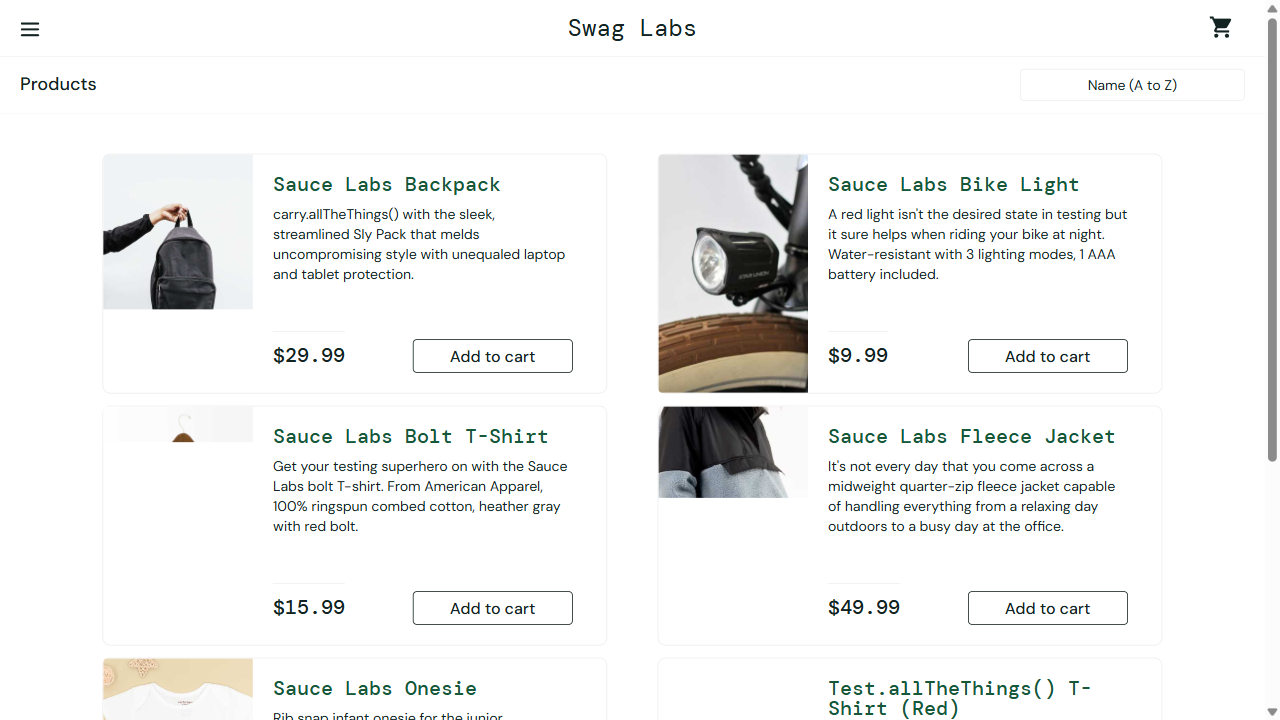
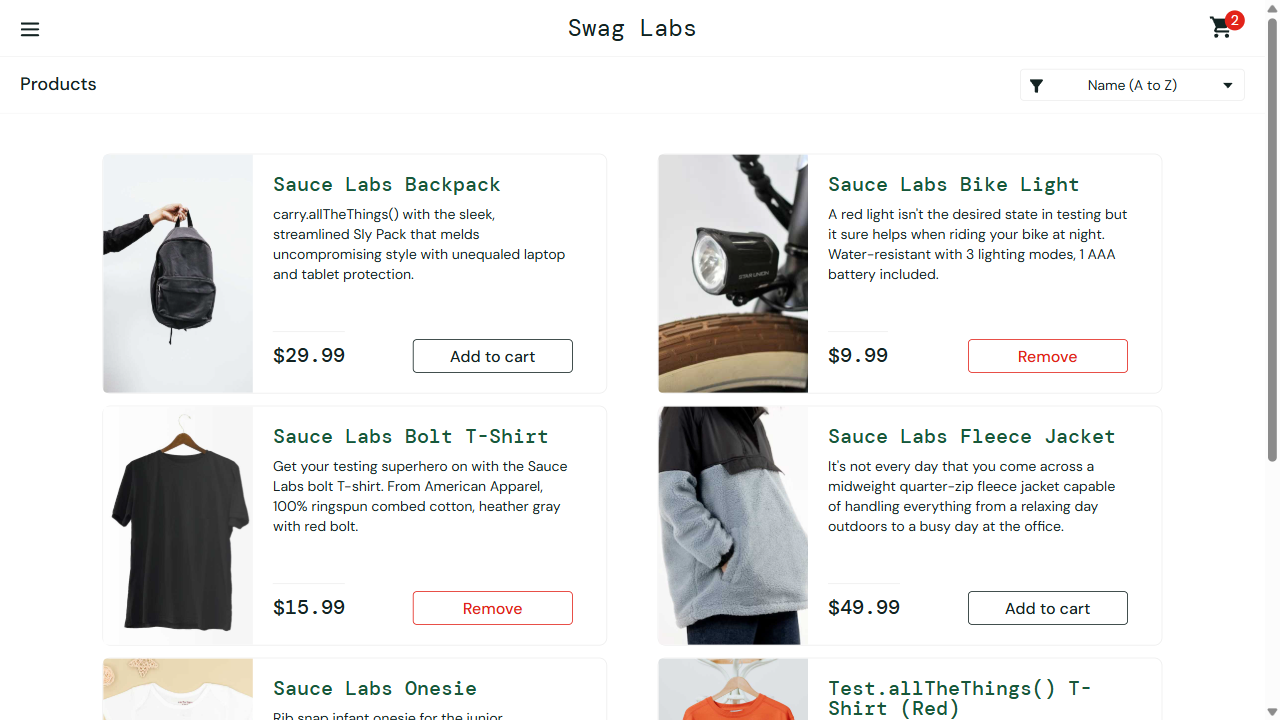
Task 3: created a cart page and added methods to accomodate adding, removing cart items by Index and counting item
Task 4: created a checkout page to accomodate the end to end checkout flow

diff --git a/munch assesment/page-objects/cart-page.ts b/munch assesment/page-objects/cart-page.ts
@@ -1,0 +1,133 @@
+import { expect, Locator, Page } from '@playwright/test';
+
+export class CartPage {
+    readonly page: Page;
+    readonly inventoryItems: Locator;
+    readonly cartItems: Locator;
+    readonly badge: Locator;
+
+    constructor(page: Page) {
+        this.page = page;
+        this.inventoryItems = page.locator('.inventory_item');
+        this.cartItems = page.locator('.cart_item');
+        this.badge = page.locator('.shopping_cart_badge');
+    }
+
+    async addItems(count: number) {
+        try {
+            await expect(this.inventoryItems.first()).toBeVisible({ timeout: 5000 });
+            const available = await this.inventoryItems.count();
+
+            if (count > available) {
+                throw new Error(`Requested ${count} items, but only ${available} are available`);
+            }
+
+            for (let i = 0; i < count; i++) {
+                const item = this.inventoryItems.nth(i);
+                const name = await item.locator('[data-test="inventory-item-name"]').textContent();
+                console.log(`Adding item: ${name}`);
+                await item.locator('button').click();
+            }
+
+            await expect(this.badge).toHaveText(String(count));
+        } catch (error) {
+            console.error('Error adding items to cart:', error);
+            await this.page.screenshot({ path: 'cart-add-error.png' });
+            throw error;
+        }
+    }
+
+    async removeItemByIndex(index: number) {
+        try {
+            const count = await this.inventoryItems.count();
+            if (index < 0 || index >= count) {
+                throw new Error(`Invalid remove index: ${index}. Available items: ${count}`);
+            }
+
+            const item = this.inventoryItems.nth(index);
+            await expect(item).toBeVisible({ timeout: 5000 });
+
+            const name = await item.locator('[data-test="inventory-item-name"]').textContent();
+            console.log(`Removing item: ${name}`);
+            await item.locator('button:has-text("Remove")').click();
+        } catch (error) {
+            console.error('Error removing item from cart:', error);
+            await this.page.screenshot({ path: 'cart-remove-error.png' });
+            throw error;
+        }
+    }
+
+    async getCartCount(): Promise<number> {
+        try {
+            if (!await this.badge.isVisible()) {
+                return 0;
+            }
+            const text = await this.badge.textContent();
+            const value = Number(text);
+            if (Number.isNaN(value)) {
+                throw new Error(`Unexpected cart badge text: ${text}`);
+            }
+            return value;
+        } catch (error) {
+            console.error('Error reading cart count:', error);
+            throw error;
+        }
+    }
+
+    async openCart() {
+        try {
+            await expect(this.page.locator('.shopping_cart_link')).toBeVisible({ timeout: 5000 });
+            await this.page.click('.shopping_cart_link');
+        } catch (error) {
+            console.error('Error opening cart:', error);
+            await this.page.screenshot({ path: 'cart-open-error.png' });
+            throw error;
+        }
+    }
+
+    async checkout() {
+        try {
+            await expect(this.page.locator('[data-test="checkout"]')).toBeVisible({ timeout: 5000 });
+            await this.page.click('[data-test="checkout"]');
+        } catch (error) {
+            console.error('Error clicking checkout:', error);
+            await this.page.screenshot({ path: 'cart-checkout-error.png' });
+            throw error;
+        }
+    }
+
+    async clearCart() {
+        try {
+            let removeButtons = this.page.locator('.inventory_item button:has-text("Remove")');
+            let count = await removeButtons.count();
+
+            while (count > 0) {
+                await removeButtons.first().click();
+                removeButtons = this.page.locator('.inventory_item button:has-text("Remove")');
+                count = await removeButtons.count();
+            }
+
+            console.log('Cleared existing cart items');
+        } catch (error) {
+            console.error('Error clearing cart:', error);
+            await this.page.screenshot({ path: 'cart-clear-error.png' });
+            throw error;
+        }
+    }
+
+    async getCartItemCount(): Promise<number> {
+        try {
+            await expect(this.cartItems.first()).toBeVisible({ timeout: 5000 });
+            return await this.cartItems.count();
+        } catch (error) {
+            console.error('Error counting cart items:', error);
+            throw error;
+        }
+    }
+}
+
+
+
+
+
+

diff --git a/munch assesment/page-objects/checkout-page.ts b/munch assesment/page-objects/checkout-page.ts
@@ -1,0 +1,102 @@
+import { expect, Locator, Page } from '@playwright/test';
+
+export class CheckoutPage {
+  readonly page: Page;
+  readonly firstName: Locator;
+  readonly lastName: Locator;
+  readonly postalCode: Locator;
+  readonly continueButton: Locator;
+  readonly finishButton: Locator;
+  readonly subtotalLabel: Locator;
+  readonly taxLabel: Locator;
+  readonly totalLabel: Locator;
+  readonly completeHeader: Locator;
+
+  constructor(page: Page) {
+    this.page = page;
+    this.firstName = page.locator('[data-test="firstName"]');
+    this.lastName = page.locator('[data-test="lastName"]');
+    this.postalCode = page.locator('[data-test="postalCode"]');
+    this.continueButton = page.locator('[data-test="continue"]');
+    this.finishButton = page.locator('[data-test="finish"]');
+    this.subtotalLabel = page.locator('.summary_subtotal_label');
+    this.taxLabel = page.locator('.summary_tax_label');
+    this.totalLabel = page.locator('.summary_total_label');
+    this.completeHeader = page.locator('.complete-header');
+  }
+
+  async fillCustomerInfo(firstName: string, lastName: string, postalCode: string) {
+    try {
+      await expect(this.firstName).toBeVisible({ timeout: 5000 });
+      await this.firstName.fill(firstName);
+      await this.lastName.fill(lastName);
+      await this.postalCode.fill(postalCode);
+      console.log('Checkout customer details entered');
+    } catch (error) {
+      console.error('Error filling checkout customer details:', error);
+      await this.page.screenshot({ path: 'checkout-fill-error.png' });
+      throw error;
+    }
+  }
+
+  async continueToOverview() {
+    try {
+      await expect(this.continueButton).toBeVisible({ timeout: 5000 });
+      await this.continueButton.click();
+      await expect(this.subtotalLabel).toBeVisible({ timeout: 5000 });
+      console.log('Navigated to checkout overview page');
+    } catch (error) {
+      console.error('Error continuing to checkout overview:', error);
+      await this.page.screenshot({ path: 'checkout-continue-error.png' });
+      throw error;
+    }
+  }
+
+  async verifySummary(expectedItemPrice: number) {
+    try {
+      const subtotalText = await this.subtotalLabel.textContent();
+      const taxText = await this.taxLabel.textContent();
+      const totalText = await this.totalLabel.textContent();
+
+      const subtotal = Number(subtotalText?.replace('Item total: $', '') ?? NaN);
+      const tax = Number(taxText?.replace('Tax: $', '') ?? NaN);
+      const total = Number(totalText?.replace('Total: $', '') ?? NaN);
+
+      if (Number.isNaN(subtotal) || Number.isNaN(tax) || Number.isNaN(total)) {
+        throw new Error(`Unable to parse checkout summary values: subtotal=${subtotalText}, tax=${taxText}, total=${totalText}`);
+      }
+
+      expect(subtotal).toBe(expectedItemPrice);
+      expect(total).toBeCloseTo(subtotal + tax, 2);
+      console.log(`Checkout summary validated: subtotal=${subtotal}, tax=${tax}, total=${total}`);
+    } catch (error) {
+      console.error('Error verifying checkout summary:', error);
+      await this.page.screenshot({ path: 'checkout-summary-error.png' });
+      throw error;
+    }
+  }
+
+  async completeCheckout() {
+    try {
+      await expect(this.finishButton).toBeVisible({ timeout: 5000 });
+      await this.finishButton.click();
+      await expect(this.completeHeader).toBeVisible({ timeout: 5000 });
+      console.log('Checkout completed');
+    } catch (error) {
+      console.error('Error completing checkout:', error);
+      await this.page.screenshot({ path: 'checkout-finish-error.png' });
+      throw error;
+    }
+  }
+
+  async verifySuccessMessage() {
+    try {
+      await expect(this.completeHeader).toHaveText('Thank you for your order!');
+      console.log('Success message verified');
+    } catch (error) {
+      console.error('Error verifying checkout success message:', error);
+      await this.page.screenshot({ path: 'checkout-success-error.png' });
+      throw error;
+    }
+  }
+}

diff --git a/munch assesment/tests/example.spec.ts b/munch assesment/tests/example.spec.ts
@@ -1,10 +1,14 @@
 import { test, expect } from '@playwright/test';
 import { LoginPage } from '../page-objects/login-page';
 import { SortPage } from '../page-objects/sort-page';
+import { CartPage } from '../page-objects/cart-page';
+import { CheckoutPage } from '../page-objects/checkout-page';
 
 test.describe.serial('Munch QA Tech Assessment Tests', () => {
   let loginPage: LoginPage;
   let sortPage: SortPage;
+  let cartPage: CartPage;
+  let checkoutPage: CheckoutPage;
   let sharedPage: any;
 
   test.beforeAll(async ({ browser }) => {
@@ -12,6 +16,8 @@ test.describe.serial('Munch QA Tech Assessment Tests', () => {
     sharedPage = await context.newPage();
     loginPage = new LoginPage(sharedPage);
     sortPage = new SortPage(sharedPage);
+    cartPage = new CartPage(sharedPage);
+    checkoutPage = new CheckoutPage(sharedPage);
   });
 
   test.afterAll(async () => {
@@ -27,52 +33,48 @@ test.describe.serial('Munch QA Tech Assessment Tests', () => {
     // Assuming the user is already logged in from the previous test
     await sortPage.sortByPriceLowToHigh();
   });
+  
+  test('Add & Remove Cart Items', async () => {
+    // Step 1: Add 3 items to the cart
+    await cartPage.addItems(3);
+
+    // Step 2: Verify cart count = 3
+    const countAfterAdd = await cartPage.getCartCount();
+    console.log(`Cart count after adding: ${countAfterAdd}`);
+    await expect(countAfterAdd).toBe(3);
+
+    // Step 3: Remove first item
+    await cartPage.removeItemByIndex(0);
+
+    // Step 4: Verify cart count = 2
+    const countAfterRemove = await cartPage.getCartCount();
+    console.log(`Cart count after removing: ${countAfterRemove}`);
+    await expect(countAfterRemove).toBe(2);
+
+    // Step 5: Open cart and verify cart page items
+    await cartPage.openCart();
+    const cartItems = await cartPage.getCartItemCount();
+    console.log(`Items in cart page: ${cartItems}`);
+    await expect(cartItems).toBe(2);
+  });
+
+  test('end-to-end checkout flow', async () => {
+    await sharedPage.goto('https://www.saucedemo.com/');
+    await loginPage.login();
+
+    await cartPage.clearCart();
+
+    const itemPriceText = await sharedPage.locator('.inventory_item .inventory_item_price').first().textContent();
+    const itemPrice = Number(itemPriceText?.replace('$', '') ?? 0);
+
+    await cartPage.addItems(1);
+    await cartPage.openCart();
+    await cartPage.checkout();
+
+    await checkoutPage.fillCustomerInfo('Steve', 'Shongwe', '1234');
+    await checkoutPage.continueToOverview();
+    await checkoutPage.verifySummary(itemPrice);
+    await checkoutPage.completeCheckout();
+    await checkoutPage.verifySuccessMessage();
+  });
 });
-
-
-
-
-
-
-
-
-
-
-
-
-
-
-
-
-
-
-
-
-
-
-
-
-
-
-
-
-
-
-
-
-// test('has title', async ({ page }) => {
-//   await page.goto('https://playwright.dev/');
-
-//   // Expect a title "to contain" a substring.
-//   await expect(page).toHaveTitle(/Playwright/);
-// });
-
-// test('get started link', async ({ page }) => {
-//   await page.goto('https://playwright.dev/');
-
-//   // Click the get started link.
-//   await page.getByRole('link', { name: 'Get started' }).click();
-
-//   // Expects page to have a heading with the name of Installation.
-//   await expect(page.getByRole('heading', { name: 'Installation' })).toBeVisible();
-// });
